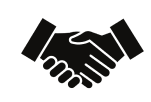
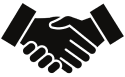
completed Happy Tenants subcomponent inside TenancyInformation component

diff --git a/frontend/src/pages/TenancyInformationContent.jsx b/frontend/src/pages/TenancyInformationContent.jsx
@@ -56,17 +56,17 @@ export default function TenancyInformationContent() {
             <ul className="flex flex-row space-x-24 text-black">
                 <li className="flex flex-col items-center space-y-2 h-full">
                     <img src={MagnifyingGlassIcon} alt="Magnifying Glass" className="h-40 w-auto mb-2" />
-                    <span className="flex-grow flex items-end">Finding a home</span>
+                    <span className="flex-grow flex items-end text-xl font-semibold">Finding a home</span>
                 </li>
 
                 <li className="flex flex-col items-center space-y-2 h-full">
                     <img src={RecycleBubble} alt="Recycle Bubble" className="h-40 w-auto mb-2" />
-                    <span className="flex-grow flex items-end">Ongoing Support</span>
+                    <span className="flex-grow flex items-end text-xl font-semibold">Ongoing Support</span>
                 </li>
 
-                <li className="flex flex-col items-center space-y-2 h-full">
-                    <img src={ShakingHands} alt="Shaking Hands" className="h-34 w-auto mb-2" />
-                    <span className="flex-grow flex items-end">Lasting Relationships</span>
+                <li className="flex flex-col items-center space-y-2 h-full mt-auto">
+                    <img src={ShakingHands} alt="Shaking Hands" className="h-30 w-auto mb-12" />
+                    <span className="flex-grow flex items-end text-xl font-semibold">Lasting Relationships</span>
                 </li>
             </ul>
         </div>
